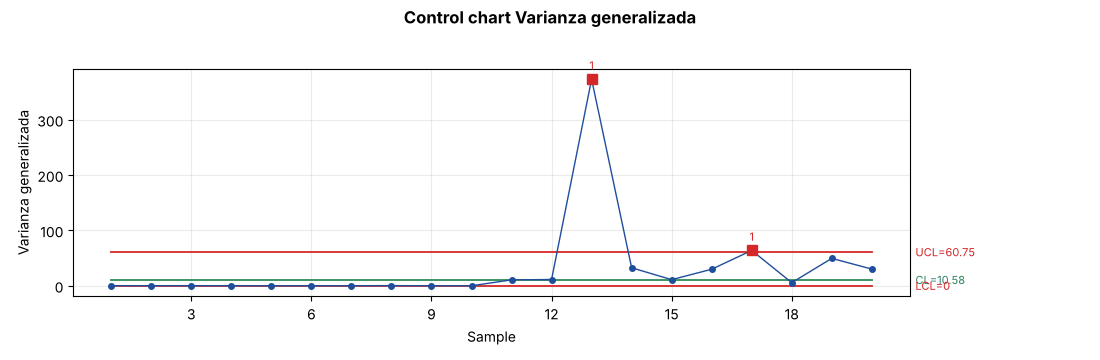
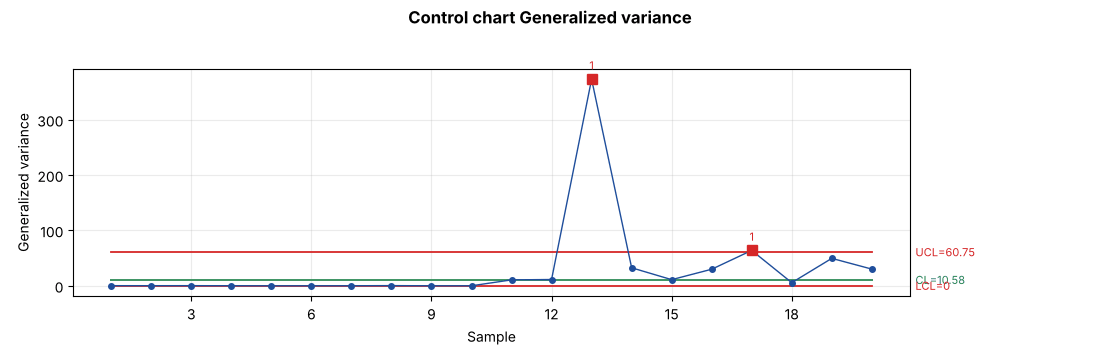
docs(012): CHANGELOG, docstring, catálogos, CLAUDE.md y spec 012 implementada (Fase 2)
Claude-Session: https://claude.ai/code/session_01XAu8rNosNy8JMkjpWPWLHb

Changed region(s): [[0.3709, 0.0306, 0.6491, 0.0917], [0.0, 0.3056, 0.0309, 0.7028]]

diff --git a/src/pccpy/charts/advanced.py b/src/pccpy/charts/advanced.py
@@ -224,11 +224,11 @@ def imr_rs_chart(
     ``within``: ``'r'`` o ``'s'``. ``sigma_method`` (sigma dentro): ``'rbar'`` o
     ``'pooled'`` para R; ``'sbar'`` o ``'pooled'`` para S (por defecto rbar / sbar).
 
-    Los parámetros ``params`` incluyen las desviaciones estándar *dentro*, *entre* y
-    *entre/dentro* (sigma_entre = sqrt(max(0, sigma_med² - sigma_dentro²/n)), con n el
-    tamaño de subgrupo más frecuente, que debe darse en más de la mitad de los
-    subgrupos; si no, se reportan como NaN). Con ``sigma_between`` histórica, la sigma
-    de las medias es sqrt(sigma_entre² + sigma_dentro²/n).
+    Los parámetros ``params`` incluyen las desviaciones estándar *dentro* (``sigma_within``),
+    *entre* (``sigma_between``) y *entre/dentro* (``sigma_between_within``); ``sigma_between`` =
+    sqrt(max(0, sigma_med² - sigma_within²/n)), con n el tamaño de subgrupo más frecuente, que
+    debe darse en más de la mitad de los subgrupos; si no, se reportan como NaN. Con
+    ``sigma_between`` histórica, la sigma de las medias es sqrt(sigma_between² + sigma_within²/n).
 
     Acepta los mismos formatos de entrada que :func:`xbar_r_chart`.
     """

diff --git a/CHANGELOG.md b/CHANGELOG.md
@@ -1,5 +1,32 @@
 # Registro de cambios
 
+## [Sin publicar] - claves en inglés en los resultados de las cartas
+
+Cambio **incompatible** (sin alias; se publica en 0.15.5 por decisión de la persona responsable): los datos con clave de los
+resultados de las cartas pasan al inglés. Principio: el código está en inglés en cualquier idioma y solo las salidas dependen del
+idioma. Con el idioma español, lo que muestra `summary()` es idéntico al de 0.15.4. Especificación `docs/specs/012-claves-en-ingles`.
+
+### Cambios que alteran resultados
+- **Claves de `chart.params`** (una por etapa): leer `carta.params[0]["media"]` ahora lanza `KeyError`; usa `carta.params[0]["mean"]`.
+  Equivalencias: `media` → `mean`, `centro` → `center`, `objetivo` → `target`, `distribución` → `distribution`, `forma` → `shape`,
+  `escala` → `scale`, `longitud` → `length`, `peso` → `weight`, `pesos` → `weights`, `reinicio` → `reset`, `subgrupos` → `subgroups`,
+  `tamaño` → `size`, `n_subgrupo` → `subgroup_size`, `MR_prom` → `mr_mean`, `alfa` → `alpha`, `corridas` → `runs`, `fase` → `phase`,
+  `método` → `method`, `n_puntos` → `n_points`, `puntos` → `points`, `partes` → `parts`, `sigma_conocida` → `sigma_known`,
+  `sigma_dentro` → `sigma_within`, `sigma_entre` → `sigma_between`, `sigma_entre_dentro` → `sigma_between_within`,
+  `sigma_mín` → `sigma_min`, `sigma_máx` → `sigma_max` y `LCS` (MEWMA y MCUSUM, el límite superior de control) → `ucl`. Las claves que ya
+  eran inglesas (`stage`, `sigma`, `n`, `p`, `k`, `h`, `headstart`, `ARL`, `variables`, `lambda_boxcox`, `sigma_z`, `benneyan_c`, `|S|`) no cambian.
+- **Valores de parámetros en texto:** `"histórica"` (Z-MR) es `"historical"` y `"parámetros conocidos"` (fase de la T²) es `"known"`.
+- **Nombres de carta y de panel:** la carta de zona es `chart.kind == "Zone"` con los paneles `"Zone"` y `"Score"` (antes `"Zona"` y
+  `"Puntaje"`: `chart["Zona"]` lanza `KeyError`) y la de varianza generalizada es `"Generalized variance"` (antes `"Varianza generalizada"`).
+  Lo mismo se ve en la columna `panel` de `violations()` y, en `to_frame(stable=True)`, en las columnas `Zone_*` y `Score_*`.
+- **Sin cambios:** los valores numéricos, el formato de los archivos de Fase I (`phase_one(...).to_dict()` y `to_json()`; los guardados con
+  0.15.x se siguen leyendo, hay un test con dos archivos de 0.15.4) y lo que muestra `summary()` en español.
+
+### Corregido
+- `summary()`, `to_frame()` y el título del gráfico traducen ahora el nombre de la carta («Zone», «Generalized variance») y de sus paneles:
+  antes el título de la carta de varianza generalizada quedaba en español con el idioma inglés.
+- Identificadores internos en español que pasan a inglés (no son API): los tipos de entrada de la Fase I y un nodo del asistente.
+
 ## [Sin publicar] - figuras y salidas de los ejemplos en el README
 
 No cambia ningún resultado numérico ni las claves del código. Con el idioma inglés cambian algunos textos que se muestran (ver «Corregido»); en español todo queda igual.

diff --git a/CLAUDE.md b/CLAUDE.md
@@ -15,7 +15,7 @@ usuario (docstrings, errores, salidas) está **en español**.
 ## Estado actual (verificado el 2026-10-17; ver el CHANGELOG para lo no publicado)
 
 - Versión **0.15.4** (`pyproject.toml` y `src/pccpy/__init__.py`; ver R-05).
-- **2 975 pruebas** pasando, **97 %** de cobertura global, Python `>=3.9`; `run_validation()` da 62 comprobaciones.
+- **3 069 pruebas** pasando, **97 %** de cobertura global, Python `>=3.9`; `run_validation()` da 62 comprobaciones.
 - Repo: `LeoSanta15/pccpy`. Publicado en PyPI vía Trusted Publisher (OIDC).
 - CI: `.github/workflows/tests.yml` (tests 3.9–3.14, `versiones-minimas` = numpy 1.22 / scipy 1.9 /
   pandas 1.4 / matplotlib 3.5 en Python 3.9, calidad = ruff + mypy + catálogos + especificaciones,
@@ -153,6 +153,7 @@ que no se negocian en `docs/specs/CONSTITUCION.md`.
 - `to_frame(stable=True)` da claves canónicas en inglés (no cambian con el idioma); sin `stable`, cabeceras en el idioma activo. Lo mismo vale para `pareto`, `oc_curve`, `aoq_curve`, `anova_frame` y `kappa_*_frame` (golden `tests/golden/i18n_tablas_es.json`). Al añadir filas o columnas, define su clave estable (los tests comparan con `tests/golden/i18n_stable.json`).
 - Los textos de `summary()` se comprueban contra `tests/golden/i18n_es.json` (generado con el código previo a la migración; **no se regenera** salvo cambio deliberado del español) y con invariantes es/en (`tests/test_i18n_resumenes.py`).
 - No pongas `tr()` dentro de un f-string: Babel solo lo extrae en Python >= 3.12 (el catálogo cambiaría según la versión).
+- **Datos con clave en inglés (spec 012):** `chart.params` (`mean`, `size`, `subgroups`, `ucl`…), `chart.kind` y los nombres de panel (`"Zone"`, `"Score"`, `"Generalized variance"`) son código en inglés e iguales en cualquier idioma; `summary()` y `to_frame()` los muestran traducidos (`results._PARAMETROS`, `_VALORES_PARAMETRO`, `_NOMBRES_VISIBLES`). Una carta nueva con `params` usa claves en inglés y las añade a `_PARAMETROS` (`tests/test_claves_ingles.py` lo vigila).
 - El marcador se llama `tr`, no `_`: 8 funciones usan `_` como variable y lanzan errores (un `_("…")` ahí fallaría solo en la ruta de error).
 
 ## Mapa del código

diff --git a/docs/specs/012-claves-en-ingles/tasks.md b/docs/specs/012-claves-en-ingles/tasks.md
@@ -24,6 +24,6 @@ deben fallar por el motivo esperado.
 
 ## Fase 2 — Verificación y cierre
 
-- [ ] Documentación, README, guías, ejemplos, traducciones y CHANGELOG (S012-RF-07).
-- [ ] `make check` en verde.
-- [ ] Estado de la especificación → `implementada`.
+- [x] Documentación, README, guías, ejemplos, traducciones y CHANGELOG (S012-RF-07).
+- [x] `make check` en verde.
+- [x] Estado de la especificación → `implementada`.

diff --git a/docs/specs/012-claves-en-ingles/spec.md b/docs/specs/012-claves-en-ingles/spec.md
@@ -1,6 +1,6 @@
 # 012 — Claves en inglés en los resultados de las cartas (`params` y nombres de panel)
 
-- **Estado:** aprobada
+- **Estado:** implementada
 - **Identificador:** S012
 - **Responsable de aprobarla:** LeoSanta15
 - **Versión objetivo:** 0.15.5 (decisión de la persona responsable; aunque rompe `chart.params` y los nombres de la carta de zona,
